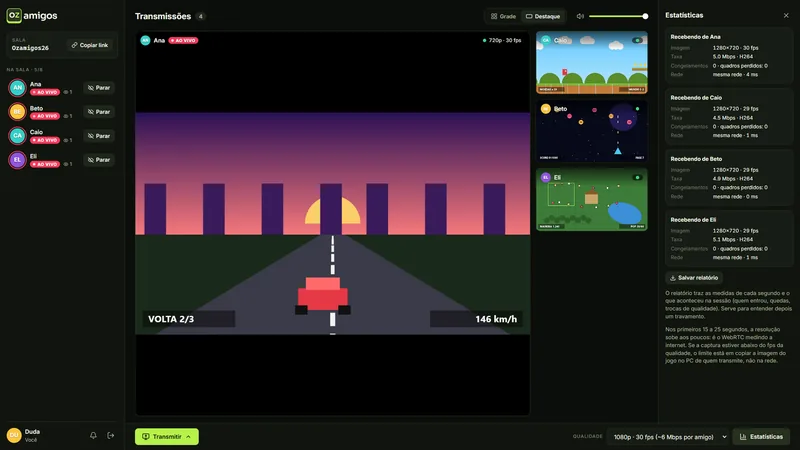
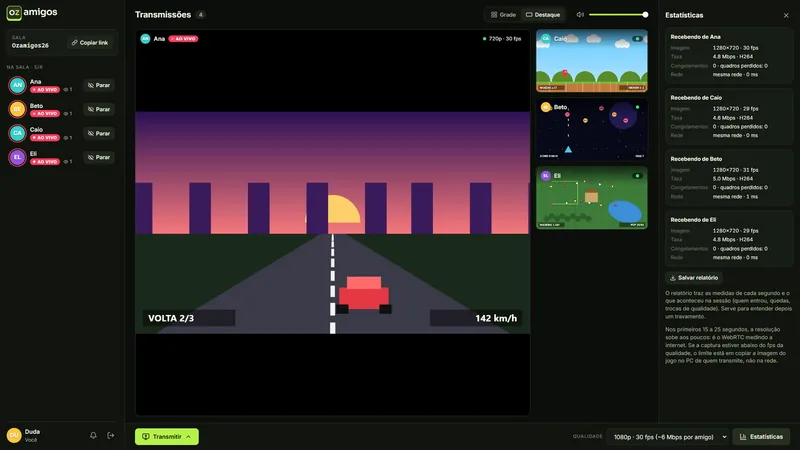
Logotipo alinhado pela base das letras
A tecla era centralizada pela caixa e, como a lateral verde fica embaixo, o "oz"
subia uns 0,16em em relação a "amigos". Agora o logotipo é texto (sem flex) e a
tecla entra na linha com vertical-align: a base do "oz" fica na base de
"amigos", e a tecla desce como a perna do "g". Vale para a interface, o site,
a tela de início do app e as imagens do README, refeitas.

diff --git a/docs/vitrine/marca.html b/docs/vitrine/marca.html
@@ -8,8 +8,9 @@
   html, body { margin: 0; background: transparent; }
 
   /* O logotipo: a tecla do ícone, com "oz" do tamanho de "amigos", que vem logo depois. */
-  .logo { display: inline-flex; align-items: center; padding: 6px; font-family: 'Sora'; font-weight: 600; font-size: 96px; letter-spacing: -0.02em; line-height: 1; }
-  .tecla-oz { flex: none; width: 1.65em; height: 1.65em; margin-right: 0.18em; }
+  .logo { display: inline-block; padding: 6px; font-family: 'Sora'; font-weight: 600; font-size: 96px; letter-spacing: -0.02em; line-height: 1; white-space: nowrap; }
+  /* A base do "oz" na base de "amigos" (a mesma regra de web/src/estilo.css). */
+  .tecla-oz { display: inline-block; width: 1.65em; height: 1.65em; margin-right: 0.18em; vertical-align: -0.641em; }
   /* Tema escuro do GitHub: texto claro. */
   .tema-escuro .resto { color: #eef5e4; }
   /* Tema claro: texto quase preto. */

diff --git a/web/src/estilo.css b/web/src/estilo.css
@@ -217,8 +217,9 @@ code {
 /* ===== Logo e avatar ===== */
 /* O logotipo: a tecla do ícone (a borda verde é a lateral da tecla), com "oz" do tamanho de "amigos", que vem logo depois. */
 .logo {
-  display: flex;
-  align-items: center;
+  display: block;
+  line-height: 1;
+  white-space: nowrap;
   font-family: 'Sora Variable', 'Inter Variable', sans-serif;
   font-size: 22px;
   font-weight: 600;
@@ -229,11 +230,14 @@ code {
   font-size: 30px;
 }
 
+/* A tecla entra na linha do texto, não centralizada pela caixa: a base do "oz" (y = 58,48 de 94 no desenho)
+   fica na base de "amigos", e a tecla desce abaixo da linha como a perna do "g". 0,641em = (95 - 58,48) / 94 × 1,65. */
 .tecla-oz {
-  flex: none;
+  display: inline-block;
   width: 1.65em;
   height: 1.65em;
   margin-right: 0.18em;
+  vertical-align: -0.641em;
 }
 
 .so-para-leitores {

diff --git a/site/estilo.css b/site/estilo.css
@@ -149,8 +149,9 @@ img {
 
 /* ===== Logo (a tecla do ícone, com "oz" do tamanho de "amigos", que vem logo depois) ===== */
 .logo {
-  display: inline-flex;
-  align-items: center;
+  display: inline-block;
+  line-height: 1;
+  white-space: nowrap;
   font-family: var(--titulos);
   font-size: 22px;
   font-weight: 600;
@@ -158,11 +159,14 @@ img {
   color: var(--texto);
 }
 
+/* A tecla entra na linha do texto, não centralizada pela caixa: a base do "oz" (y = 58,48 de 94 no desenho)
+   fica na base de "amigos", e a tecla desce abaixo da linha como a perna do "g". 0,641em = (95 - 58,48) / 94 × 1,65. */
 .tecla-oz {
-  flex: none;
+  display: inline-block;
   width: 1.65em;
   height: 1.65em;
   margin-right: 0.18em;
+  vertical-align: -0.641em;
 }
 
 /* ===== Botões ===== */

diff --git a/desktop/inicio.css b/desktop/inicio.css
@@ -76,21 +76,24 @@ form {
 }
 
 .logo {
-  display: flex;
-  align-items: center;
+  display: block;
   margin: 0;
+  line-height: 1;
+  white-space: nowrap;
   font-family: 'Sora', sans-serif;
   font-size: 30px;
   font-weight: 600;
   letter-spacing: -0.02em;
 }
 
-/* A tecla "oz": o mesmo desenho do ícone. */
+/* A tecla entra na linha do texto, não centralizada pela caixa: a base do "oz" (y = 58,48 de 94 no desenho)
+   fica na base de "amigos", e a tecla desce abaixo da linha como a perna do "g". 0,641em = (95 - 58,48) / 94 × 1,65. */
 .tecla-oz {
-  flex: none;
+  display: inline-block;
   width: 1.65em;
   height: 1.65em;
   margin-right: 0.18em;
+  vertical-align: -0.641em;
 }
 
 p {

diff --git a/AGENTS.md b/AGENTS.md
@@ -32,7 +32,7 @@ Deploy: Render (Docker). O `Dockerfile` tem 3 etapas: Node monta `web/`, o JDK c
   - o `appId` (`dev.ozamigos.share`): com ele, o instalador novo reconhece e substitui o antigo;
   - a pasta de dados `%APPDATA%\Ozamigos Share`, fixada com `app.setPath('userData', ...)` no topo do `main.js`. Sem isso, o nome novo levaria o Electron para uma pasta vazia e todos perderiam o servidor, o nome, a senha e os volumes.
 - **Ícone "Tecla oz":** uma tecla de teclado com "oz" na fonte Sora (peso 700), o "o" claro e o "z" verde (até a 1.2.6 eram um "O" oval desenhado e um "z" pequeno no canto, que lembrava "O₂"). A tecla ocupa o quadro inteiro (1 de margem em 96, sem cortar os cantos nem a lateral verde), com fundo transparente: com uma placa escura em volta (até a 1.2.0), e depois com margem de 4 (até a 1.2.7), ela parecia menor que os outros ícones na barra de tarefas, onde o Windows dá 24×24 px a cada app. As letras têm tamanho 66, centradas no topo da tecla. As letras são contornos da fonte, em caminhos SVG (`LETRA_O` e `LETRA_Z`), e a geometria (em 96×96) existe em **dois lugares, que precisam ficar iguais**: `web/public/icone.svg` (favicon, copiado em `site/icone.svg`) e `desktop/build/gerar-icone.js`, que desenha o `desktop/build/icone.ico` (ícone do app, da janela e do instalador) e o `icone.png` de referência; rode `npm run icone` em `desktop`. O `.ico` tem cada tamanho, de 16 a 256, desenhado direto naquele tamanho (BMP até 128, PNG no 256): usar o PNG de 256 deixava torto o ícone de 16 da barra de título. O `site/imagens/icone-180.png` (ícone do iPhone) é o SVG fotografado em 180×180.
-- **Logotipo:** a tecla do ícone como SVG em linha (`.tecla-oz`, a mesma geometria, com `viewBox="1 1 94 94"` recortando a tecla), seguida de "amigos" na fonte Sora. **As letras da tecla do logo não são as do ícone:** no logo, o "oz" é a Sora 600 no tamanho 57 (em 96), o mesmo tamanho e peso de "amigos" ao lado; no ícone, Sora 700 no tamanho 66, para aparecer na barra de tarefas. Com as letras do ícone, o "oz" ficava maior que "amigos". A tecla tem 1,65 vez a altura do texto (22px no cabeçalho do site e na barra lateral). O SVG está repetido em `Logo.tsx`, no site (`index.html`, `en/index.html` e `404.html`), em `desktop/inicio.html`, `desktop/atualizando.html` e `docs/vitrine/marca.html`: se a tecla mudar, mude todos (e mantenha as letras do logo do tamanho de "amigos"). A Sora vem do pacote `@fontsource-variable/sora` na interface, de `site/fontes/sora.woff2` no site e de `desktop/build/sora.woff2` na tela de início do app (licença OFL ao lado).
+- **Logotipo:** a tecla do ícone como SVG em linha (`.tecla-oz`, a mesma geometria, com `viewBox="1 1 94 94"` recortando a tecla), seguida de "amigos" na fonte Sora. **As letras da tecla do logo não são as do ícone:** no logo, o "oz" é a Sora 600 no tamanho 57 (em 96), o mesmo tamanho e peso de "amigos" ao lado; no ícone, Sora 700 no tamanho 66, para aparecer na barra de tarefas. Com as letras do ícone, o "oz" ficava maior que "amigos". **A tecla se alinha pelas letras, não pela caixa:** `.logo` é um bloco de texto (`line-height: 1`, sem flex) e `.tecla-oz` é `inline-block` com `vertical-align: -0.641em`, o que põe a base do "oz" (y = 58,48 de 94 no desenho) na base de "amigos"; a tecla desce abaixo da linha como a perna do "g". Centralizada pela caixa (com flex), a lateral verde de baixo empurrava o "oz" uns 0,16em para cima. Se mudar o tamanho da tecla ou a posição das letras, recalcule: (95 − base) / 94 × altura. A tecla tem 1,65 vez a altura do texto (22px no cabeçalho do site e na barra lateral). O SVG está repetido em `Logo.tsx`, no site (`index.html`, `en/index.html` e `404.html`), em `desktop/inicio.html`, `desktop/atualizando.html` e `docs/vitrine/marca.html`: se a tecla mudar, mude todos (e mantenha as letras do logo do tamanho de "amigos"). A Sora vem do pacote `@fontsource-variable/sora` na interface, de `site/fontes/sora.woff2` no site e de `desktop/build/sora.woff2` na tela de início do app (licença OFL ao lado).
 - **Paleta Lima** (tokens em `web/src/estilo.css`, repetidos em `desktop/inicio.css`): fundo grafite esverdeado (`--fundo` `#0b0e0a`) e destaque verde-limão (`--destaque` `#b6f24a`). **Texto em cima do verde é escuro** (`--no-destaque`), nunca branco. O vermelho continua reservado para "ao vivo" (`--ao-vivo`).
 
 ## Comandos (PowerShell, a partir da raiz)

diff --git a/CHANGELOG.md b/CHANGELOG.md
@@ -6,6 +6,11 @@ Os arquivos de cada versão estão em [Releases](https://github.com/kayokalinaus
 
 O servidor e a versão web não têm número de versão: cada push na `main` vai para o ar no Render.
 
+## [Não lançado]
+
+### Alterado
+- Logotipo alinhado: o "oz" da tecla passa a apoiar na mesma base de "amigos" (antes ficava um pouco acima, porque a tecla era centralizada pela caixa). No site e na interface já vale; no app, entra na tela de início e na janela de atualização da próxima versão.
+
 ## [1.2.9] - 2026-10-13
 
 ### Alterado
